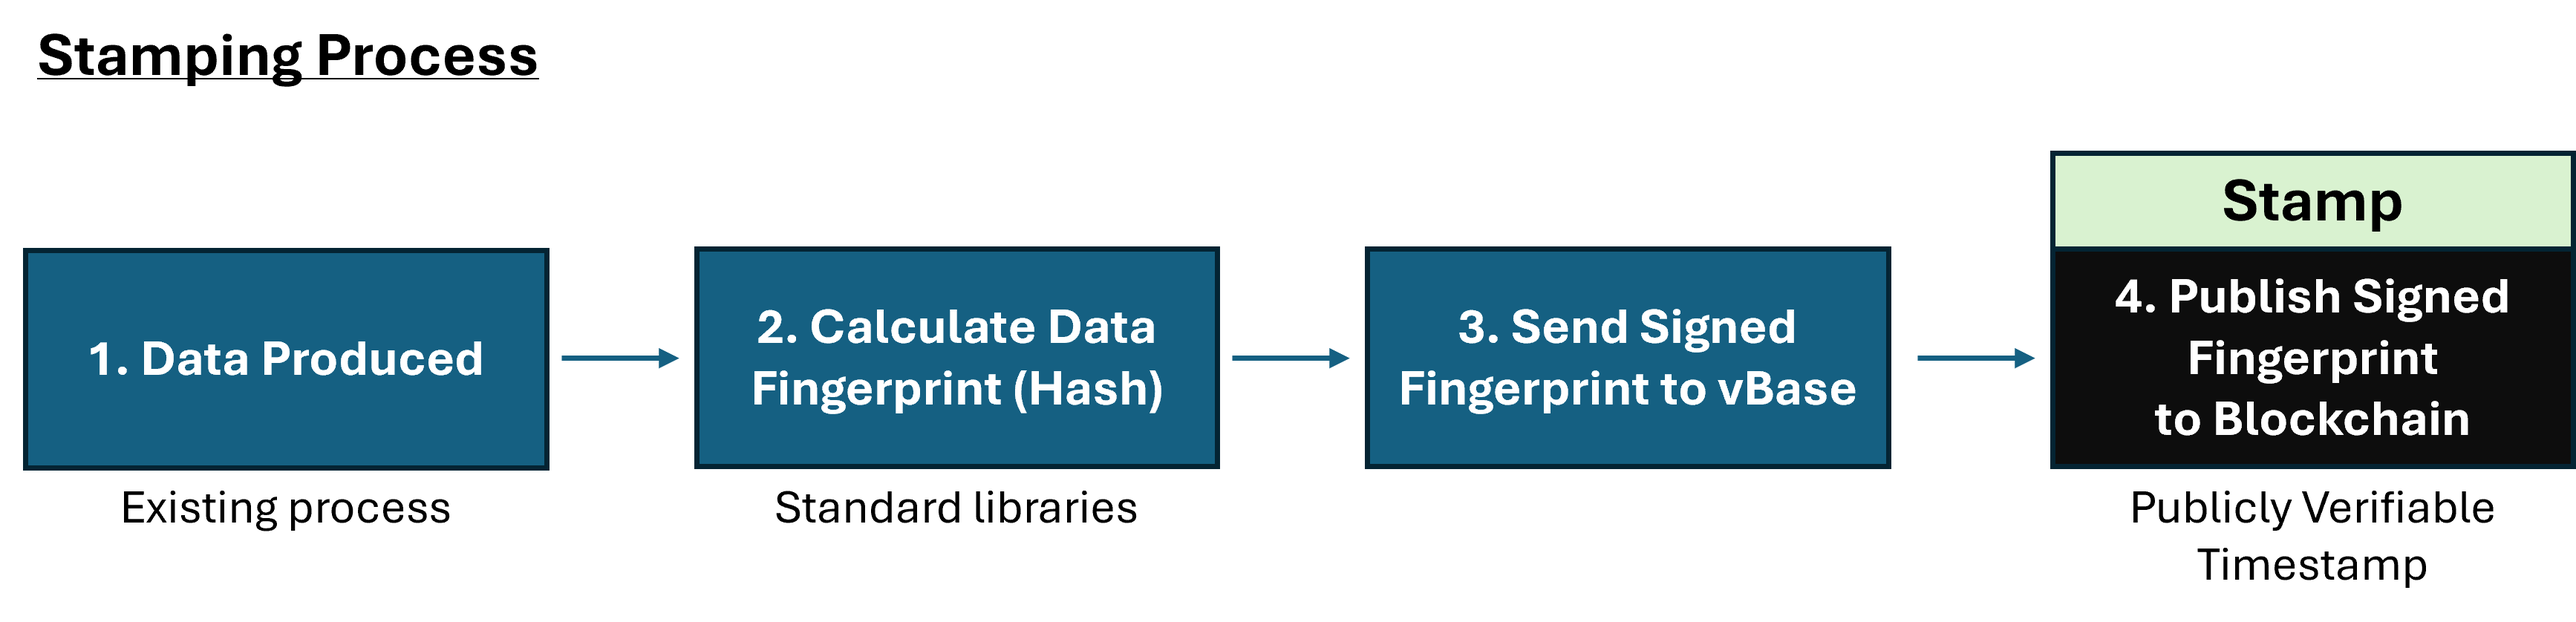
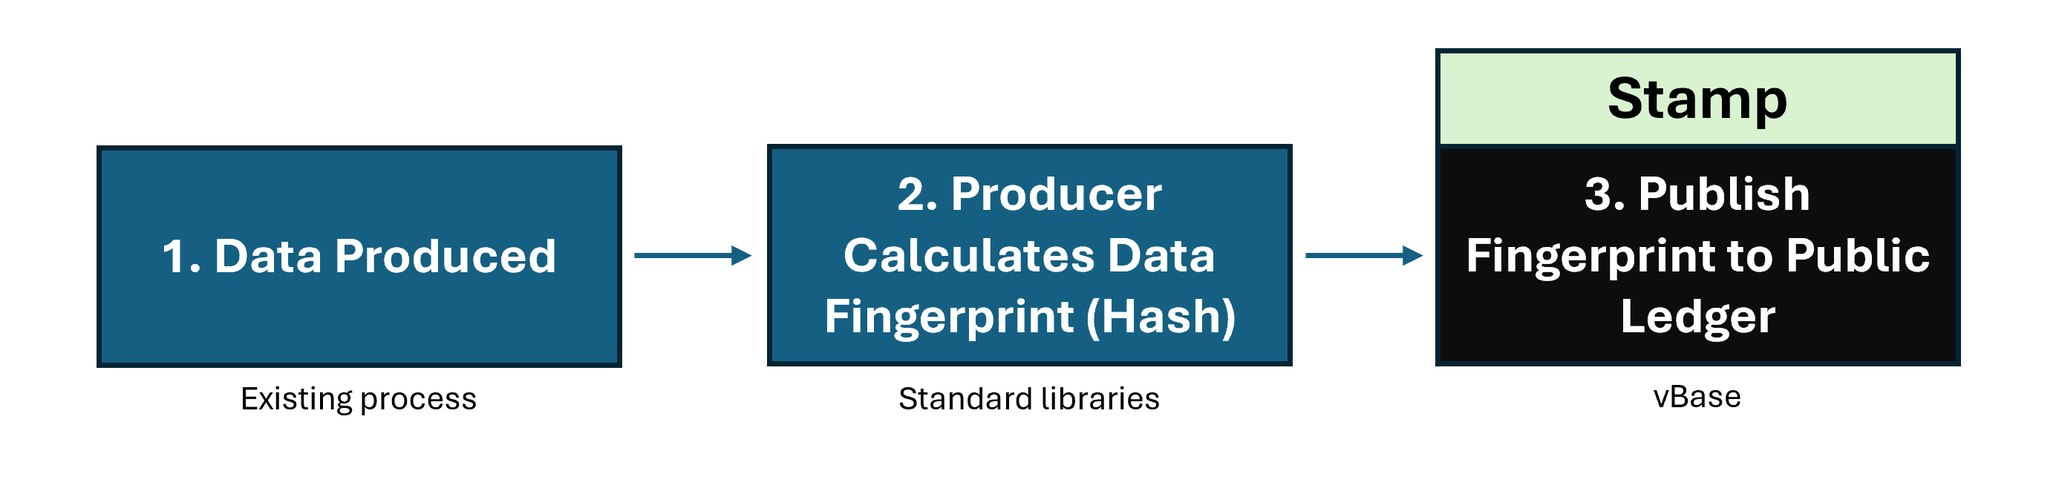
update

diff --git a/docs/getting-started/how-vbase-works.md b/docs/getting-started/how-vbase-works.md
@@ -16,10 +16,7 @@ Related records can be grouped into **Collections**, making it possible to verif
 
 <figure>
   <img src="stamping_process.png" alt="The vBase Stamping Process" width="80%">
-  </figure>
-
-<figure>
-  <img src="validation_process.png" alt="The vBase Validation Process" width="80%">
+   <figcaption>The stamping process. Publication to the public ledger gives the Stamp an independently verifiable timestamp — one that doesn't depend on trusting vBase or the data producer.</figcaption>
 </figure>
 
 
@@ -48,7 +45,7 @@ A **vBase Stamp** is an individual audit trail record for a file or other digita
 A Stamp links:
 
 - The **Content ID** of the stamped data
-- The **blockchain address** associated with the account that created the Stamp
+- The **blockchain address** associated with the vBase account that signs the Stamp
 - A publicly verifiable **publication timestamp** for the audit trail record
 - An optional **Collection ID** linking the Stamp to a larger audit trail
 
@@ -66,6 +63,11 @@ vBase does not need to change how data is distributed.
 Producers can continue sending files, delivering data through APIs, granting S3 access, or using other existing delivery methods. The vBase audit trail remains separate from the data itself.
 
 ### 5. Verify the history
+
+<figure>
+  <img src="verification_process.png" alt="The vBase Verification Process" width="80%">
+     <figcaption>The stamping process. Publication to the public ledger gives the Stamp an independently verifiable timestamp — one that doesn't depend on trusting vBase or the data producer.</figcaption>
+</figure>
 
 vBase is designed to make verification both **easy to perform** and **credible to rely on**.
 
@@ -129,9 +131,9 @@ These distinctions are important: vBase builds independently verifiable evidence
 
 Anyone can calculate a cryptographic hash and publish it to a public blockchain. Doing so directly, however, typically requires managing blockchain wallets, transaction fees, smart contracts, and infrastructure for retrieving and interpreting the resulting records.
 
-Stamping data or trading strategies creates a useful asymmetry: a complete, point-in-time stamped history is easy for a producer to build and impossible to generate after the fact — so someone with predictive data or strategies can send an inexpensive but highly credible signal about their work.
-
 vBase handles that complexity and provides practical tools for creating, organizing, and verifying audit trails through its Web App, APIs, and developer tools.
+
+Stamping data or trading strategies creates a useful asymmetry: a complete, point-in-time stamped history is easy for a producer to build and impossible to generate after the fact — so someone with predictive data or strategies can send an inexpensive but highly credible signal about their work.
 
 For more detail on why vBase uses a public blockchain, see [Why Blockchains?](why-blockchains.md).
 

diff --git a/README.md b/README.md
@@ -19,7 +19,7 @@ vBase helps producers of predictive data demonstrate its value. Trading signals,
 
 vBase creates point-in-time audit trails that let investors and other data consumers validate historical records directly. This enables them to evaluate the underlying data or strategy without worrying about potential revisions, uncertain timestamps, or selective presentation.
 
-Because a vBase record is easy to build and impossible to backdate, it lets a producer send an inexpensive but highly credible signal about their work.
+Because a point-in-time vBase record is easy to build and impossible to generate after the fact, it lets a producer send an inexpensive but highly credible signal about their work.
 
 **The data can remain entirely private.** vBase uses cryptographic fingerprints (hashes) of the data to build audit trail records. Users can choose workflows in which the underlying data is **never sent to vBase.**
 
